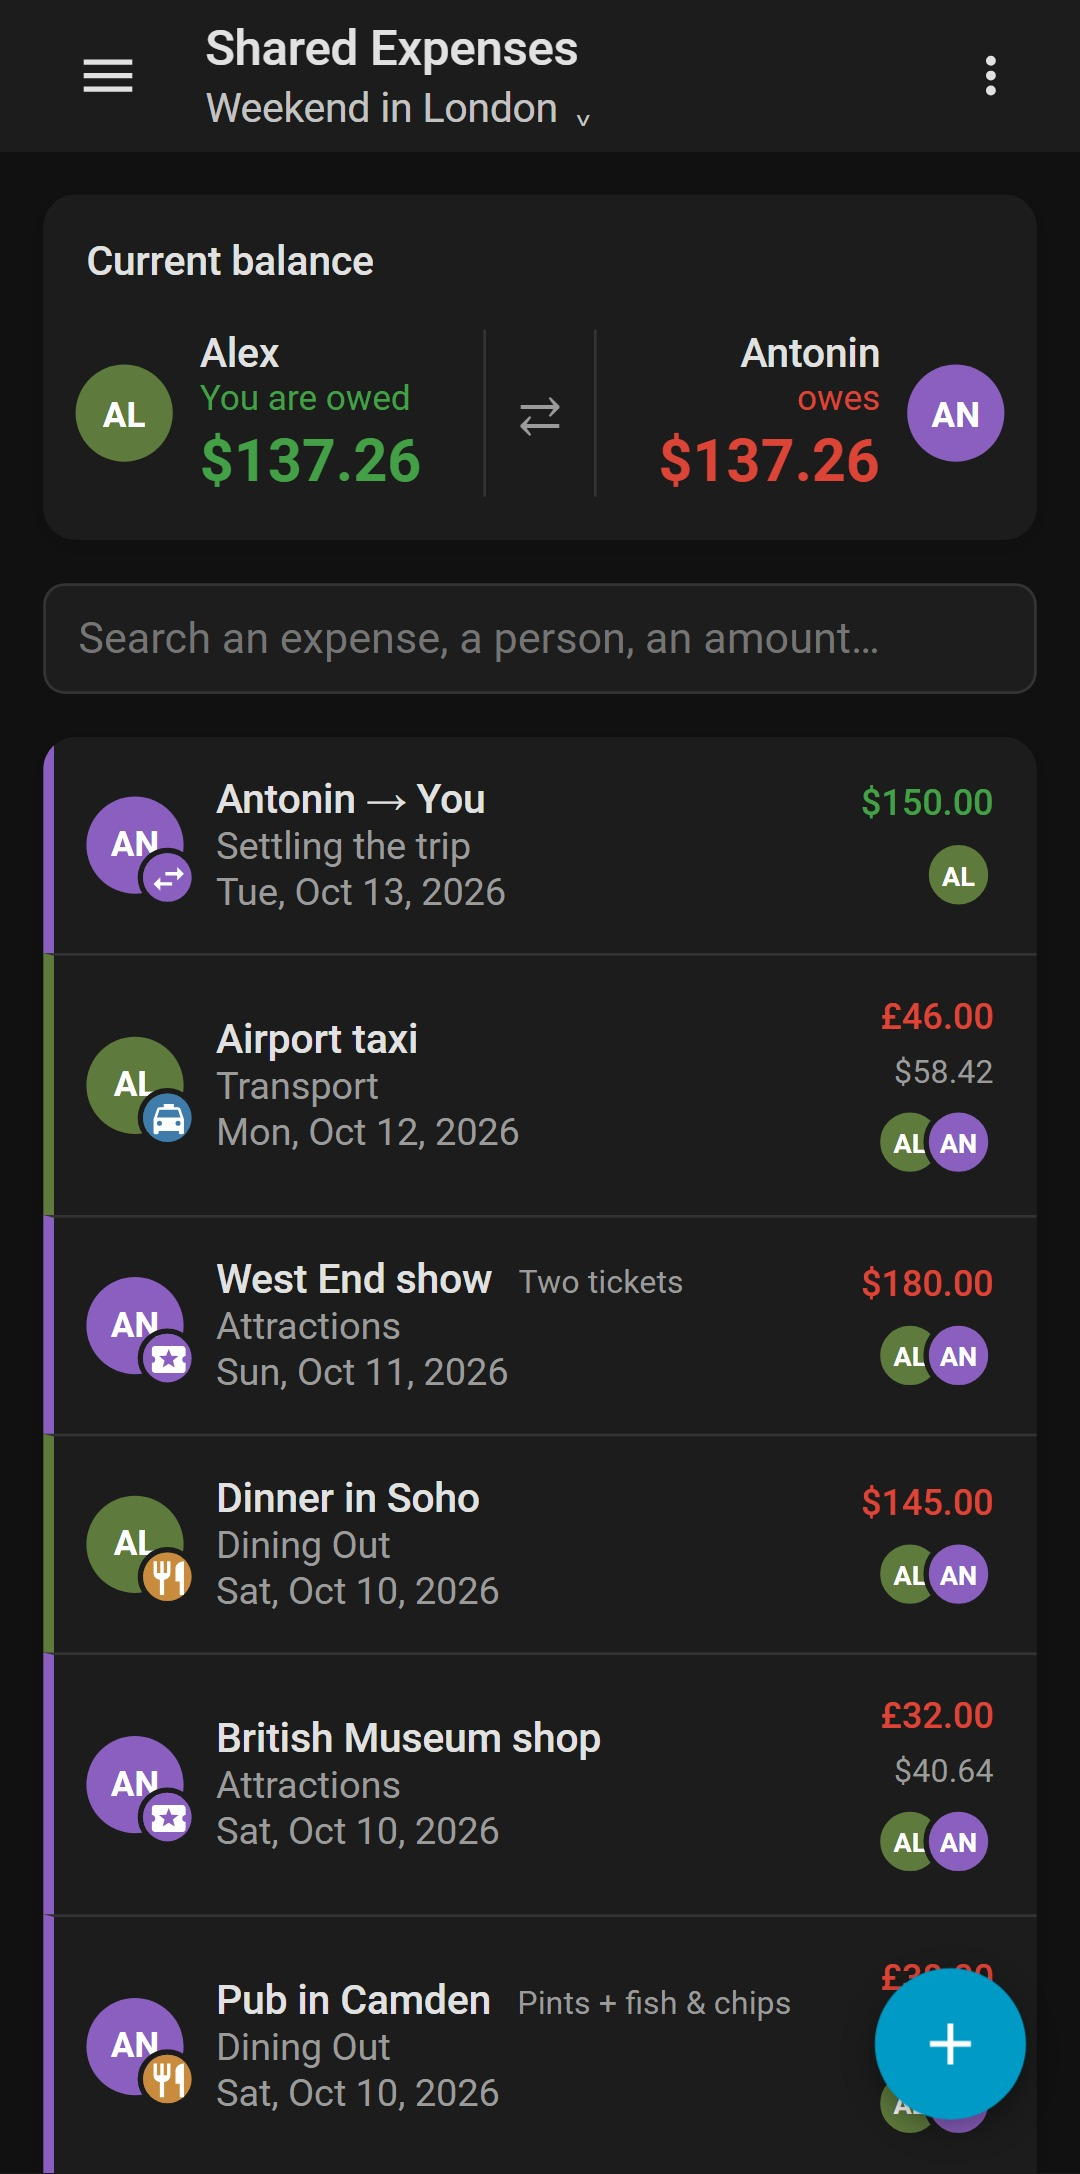
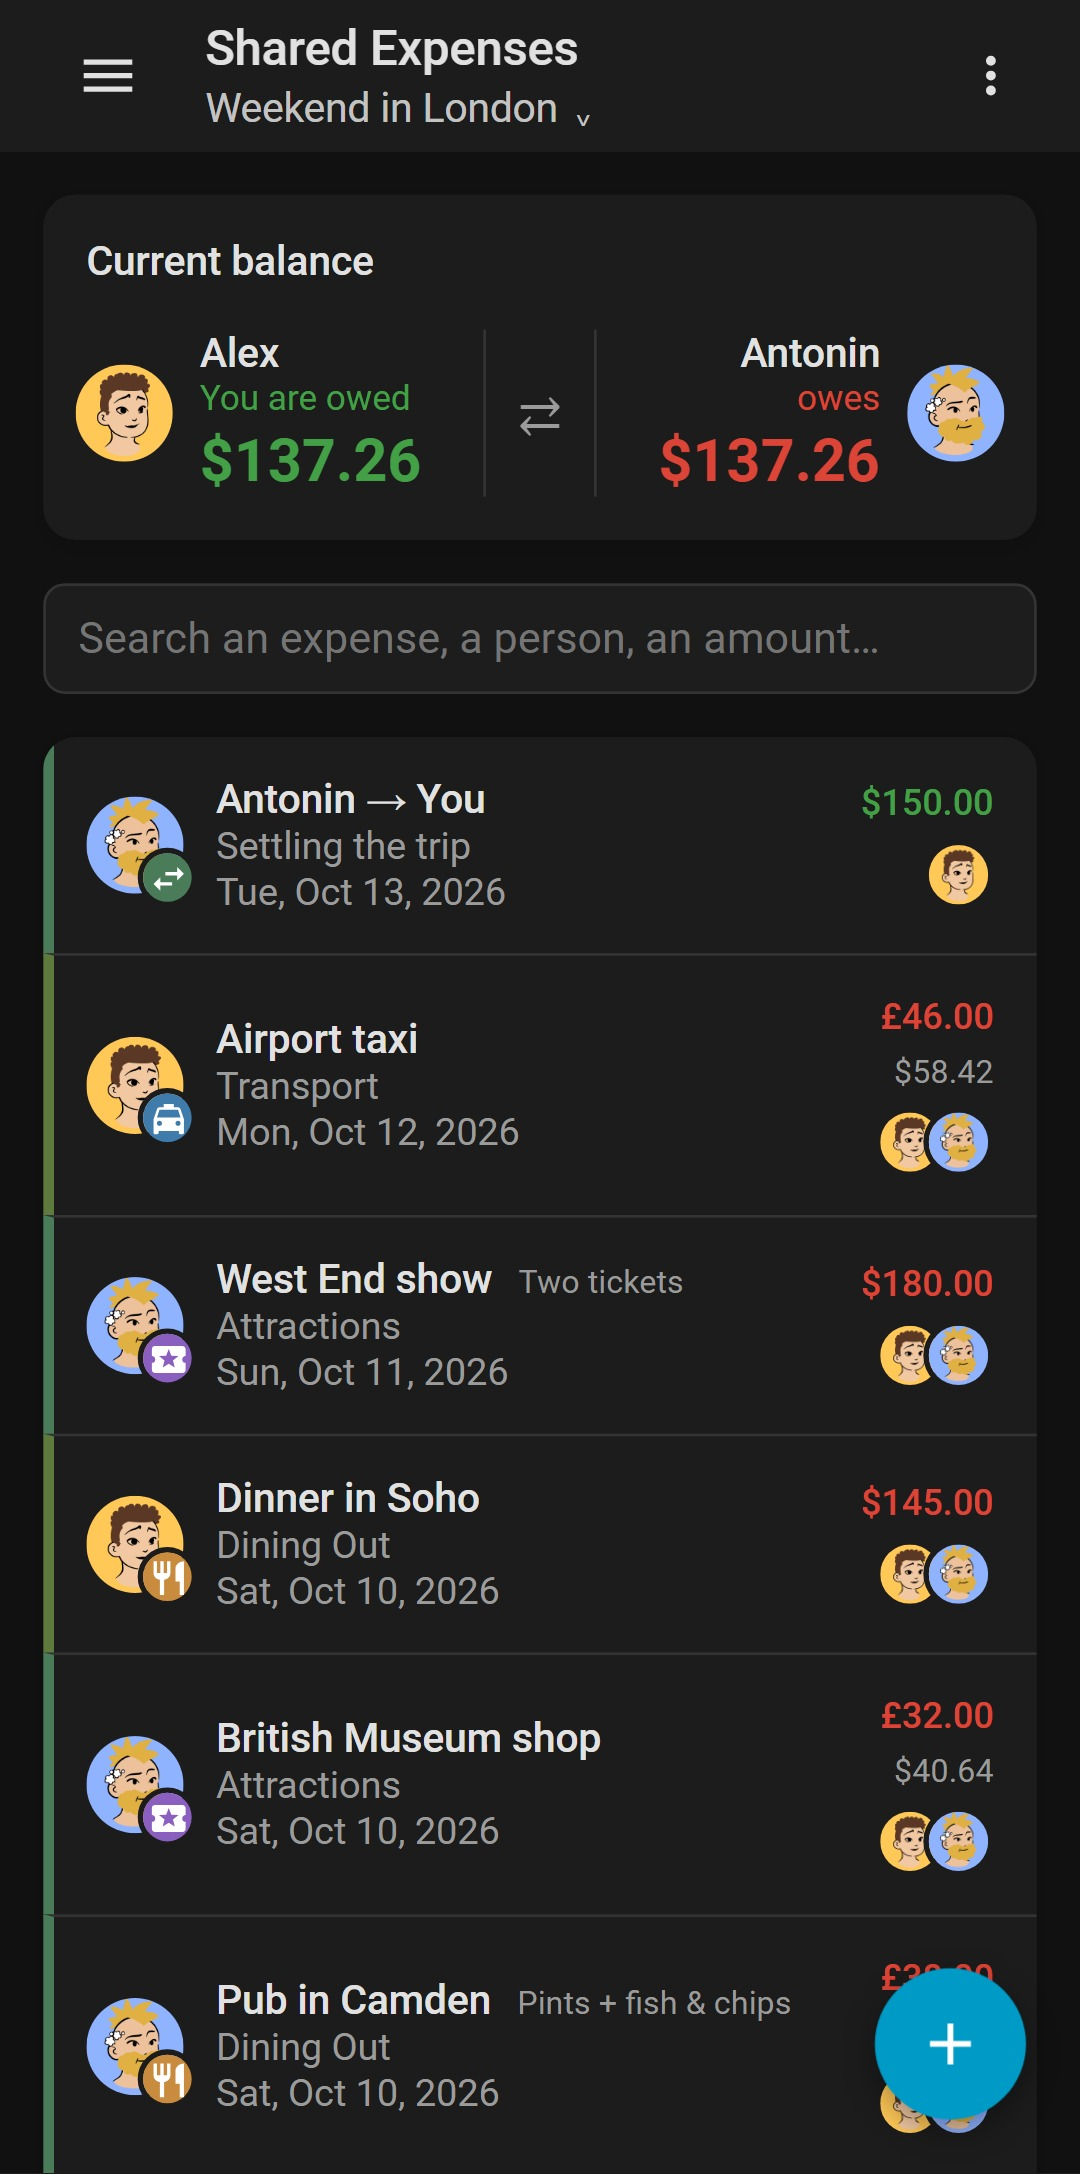
docs: the README opens on a quick tour, and the demo people have faces
A gallery of still shots shows what the panel looks like, not what it is
like to use. The larger HACS projects lead with a moving picture for that
reason, so the gallery now starts with one: the apartment's balances, a
36 dollar bill of which only 20 is shared, the balance moving with it, the
weekend in London in pounds, and where the money went, as bars and then as
a ring. Twenty-six seconds, looping, under a line that says what it shows.

Every member of the demo showed coloured initials, which hid what the
README itself announces: a member with a Home Assistant account wears
their photo. Four of the five now have an account and a face, drawn rather
than photographed (DiceBear's Lorelei, public domain), each with its own
colour, hair and one trait, so they can be told apart at the size of an
avatar stacked on a row. Marcus stays a guest with initials, which is the
other half of the same rule. The shots that show members are retaken on
that data, and the three phones at the top with them.

diff --git a/README.md b/README.md
@@ -44,6 +44,12 @@ directory, restart Home Assistant, then add the integration as in step 2.
 ## 📸 A look around
 
 <p align="center">
+  <img src="docs/screenshots/tour.gif" width="270" alt="A quick tour: the apartment's balances, a 36 dollar wine and cheese of which 20 is shared, the weekend in London in pounds, then where the money went, as bars and as a ring" title="Balances, a bill shared in part, a trip in pounds, and where it all went">
+</p>
+
+<p align="center"><sub>Balances, a bill shared in part, a trip in pounds, and where it all went.</sub></p>
+
+<p align="center">
   <img src="docs/screenshots/01-groups.jpg" width="176" alt="Your groups, one tap in" title="Your groups, one tap in">&nbsp;
   <img src="docs/screenshots/02-balances.jpg" width="176" alt="Who owes what, from where you stand" title="Who owes what, from where you stand">&nbsp;
   <img src="docs/screenshots/03-trip-currency.jpg" width="176" alt="Two of you, in a currency the group doesn't count in" title="Two of you, in a currency the group doesn't count in">&nbsp;
